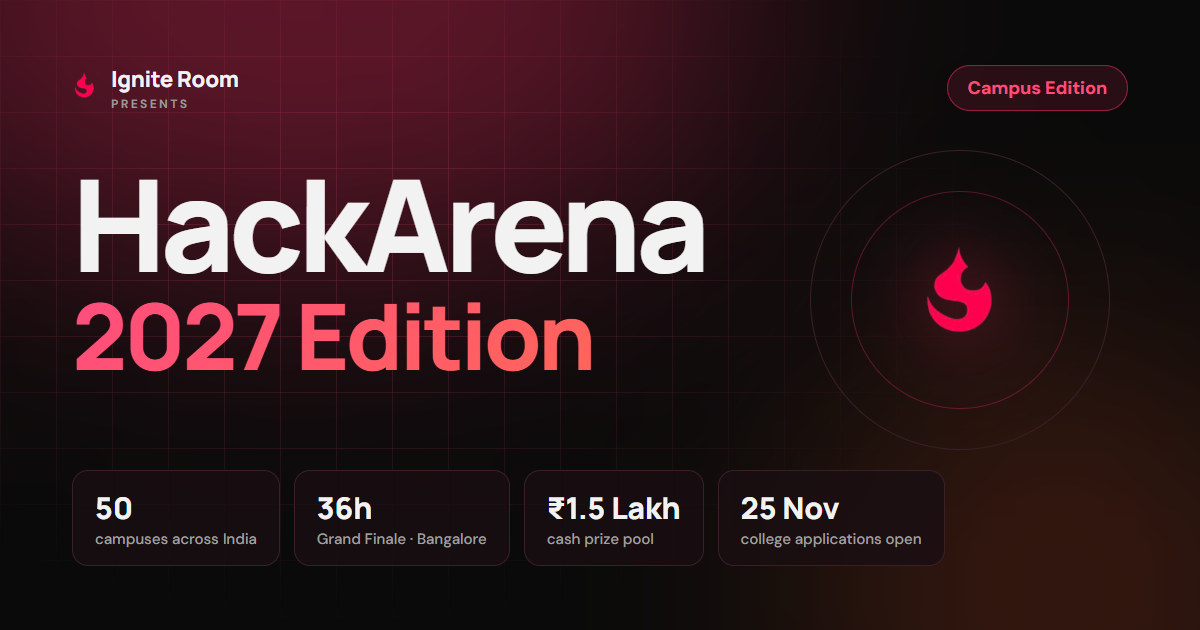
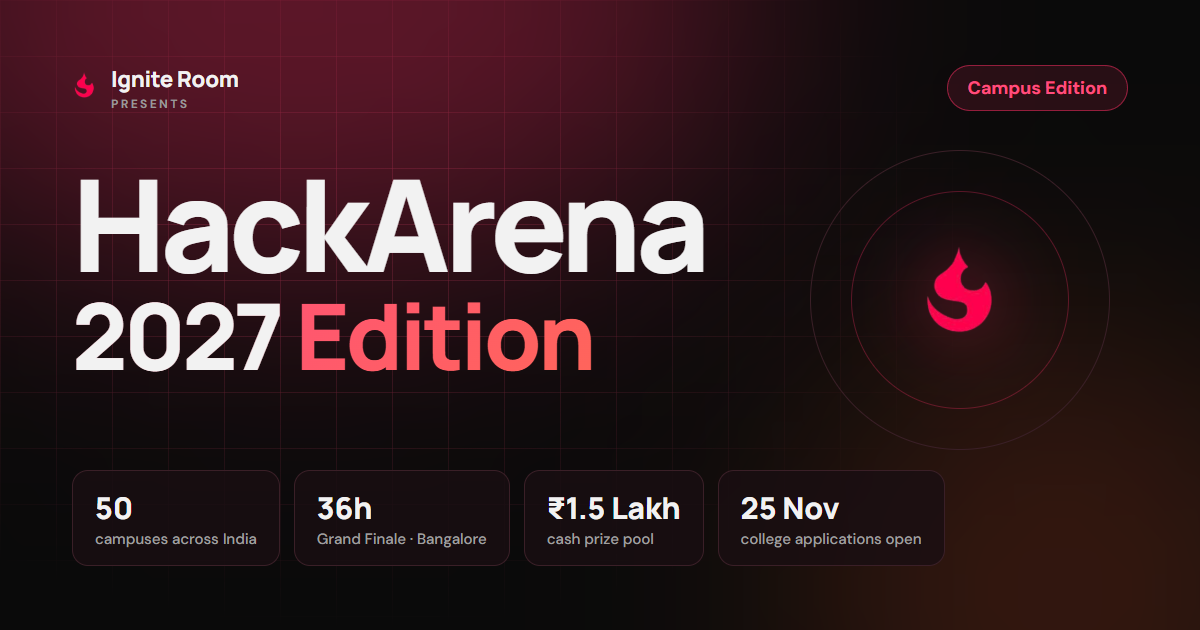
HackArena 2027: wordmark reads just HackArena; 2027 in white in hero

Changed region(s): [[0.0617, 0.4825, 0.2467, 0.6032]]

diff --git a/src/hackarena/components/HALayout.tsx b/src/hackarena/components/HALayout.tsx
@@ -52,12 +52,7 @@ export function Wordmark({ compact = false }: { compact?: boolean }) {
   return (
     <span className="flex items-center gap-2.5">
       <img src={igniteLogo} alt="" className={compact ? 'h-7 w-auto' : 'h-8 w-auto'} />
-      <span className="flex flex-col leading-none">
-        <span className="font-heading font-extrabold text-[15px] tracking-tight text-foreground">
-          HackArena<span className="text-primary"> 2027</span>
-        </span>
-        <span className="text-[10px] uppercase tracking-[0.18em] text-muted-foreground mt-1">by Ignite Room</span>
-      </span>
+      <span className="font-heading font-extrabold text-[17px] leading-none tracking-tight text-foreground">HackArena</span>
     </span>
   );
 }

diff --git a/src/hackarena/sections/Hero.tsx b/src/hackarena/sections/Hero.tsx
@@ -55,7 +55,8 @@ export default function Hero({ phase, titleSponsor }: { phase: HAPhase; titleSpo
             <span className="sr-only">{HA.name} · {HA.edition}</span>
             <span aria-hidden className="block text-[3.4rem] sm:text-7xl lg:text-[6.5rem] text-foreground">HackArena</span>
             <span aria-hidden className="mt-2 flex flex-wrap items-baseline gap-x-4 gap-y-2">
-              <span className="text-[2.6rem] sm:text-6xl lg:text-[5rem] text-gradient">2027 Edition</span>
+              <span className="text-[2.6rem] sm:text-6xl lg:text-[5rem] text-foreground">2027</span>
+              <span className="text-[2.6rem] sm:text-6xl lg:text-[5rem] text-gradient">Edition</span>
             </span>
           </motion.h1>
 
